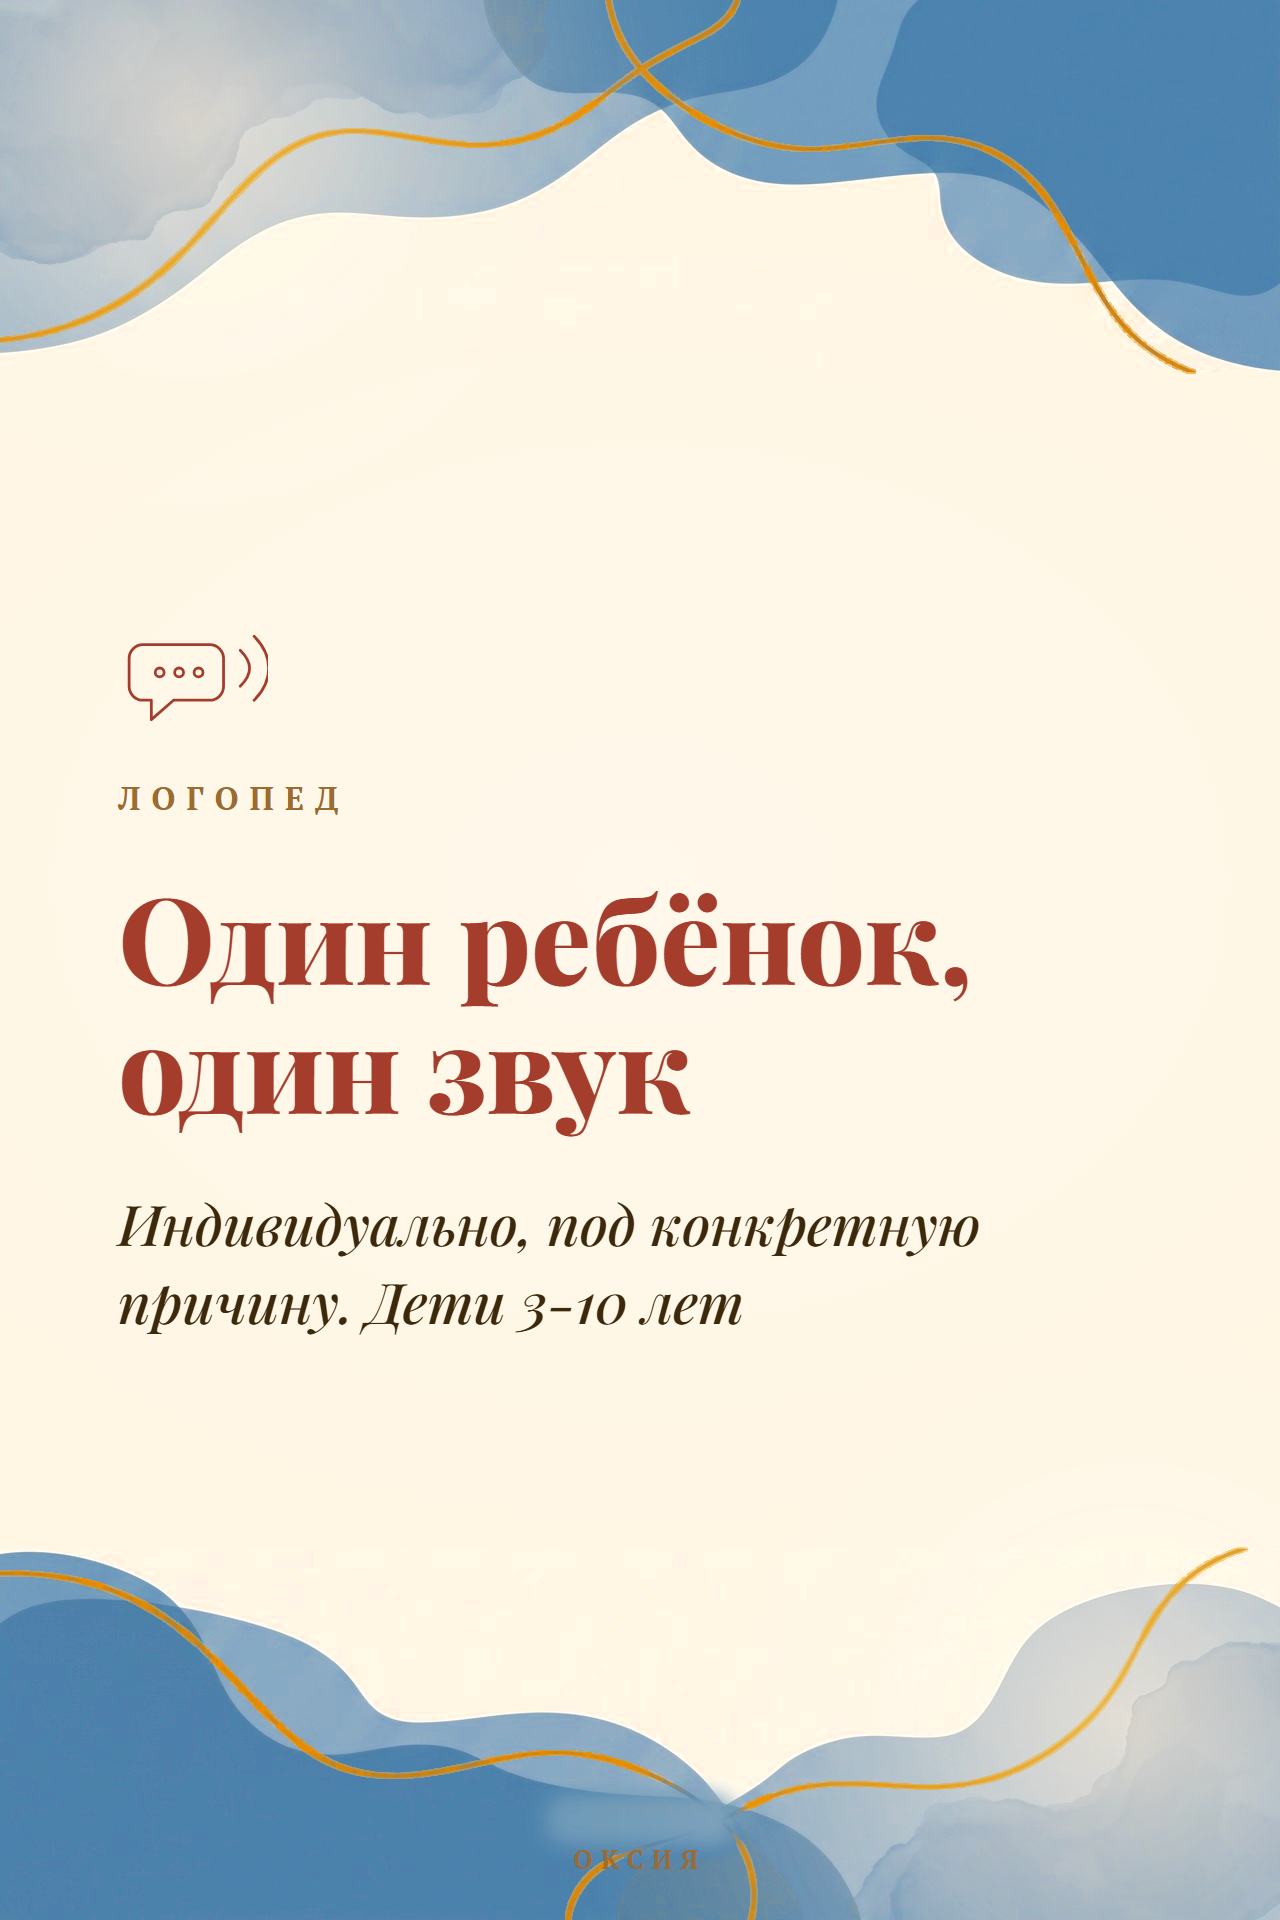
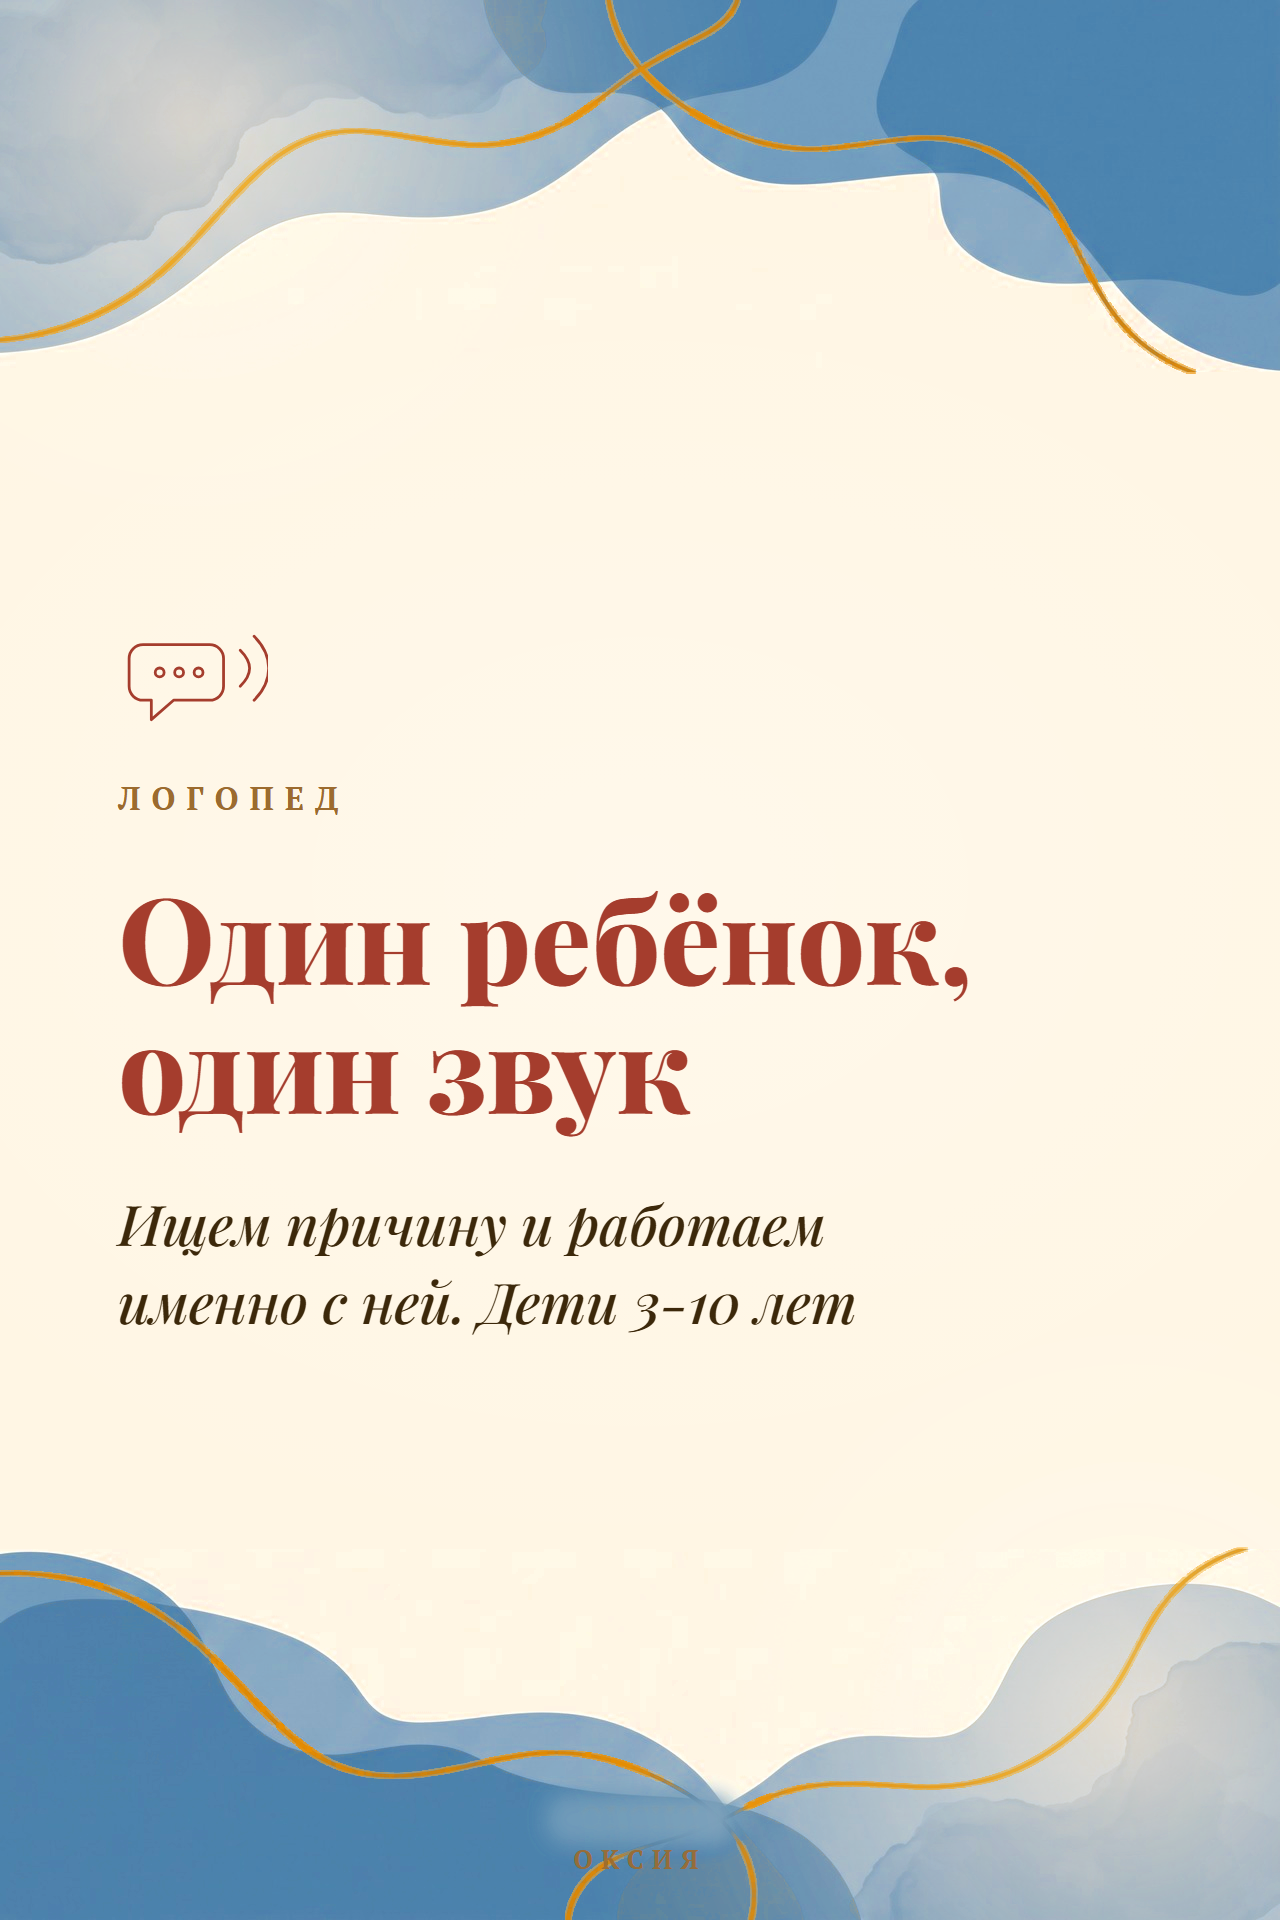
Аудит смысла/выгоды/русского языка по всем нетронутым слайдам
- 5: "Идёт в первый класс без стресса и растерянности" вместо бессмысленного "знает, что такое урок"
- 9: убран комма-сплайс "Берём с 4 лет, программа идёт..." -> точка
- 24: репетитор — вернули выгоду из брифа вместо голого списка предметов
- 33: убрана калька "под конкретную причину"

Changed region(s): [[0.0938, 0.625, 0.7812, 0.6875]]

diff --git a/story-preview/_build/slide-bright.html b/story-preview/_build/slide-bright.html
@@ -200,7 +200,7 @@ const S = {
   <div class="num">8 800 ₽</div>
   <div class="permo">в месяц</div>
   <div class="hair"></div>
-  <div class="lead">Читает, пишет и знает,<br>что такое урок</div>` },
+  <div class="lead">Идёт в первый класс<br>без стресса и растерянности</div>` },
 
 6:{ bg:'tb-bright-gold', accent:'var(--green-muted)', icon:I.hallmark, isize:'140px', ds:'150px', html:`
   <div class="kick">Как учим</div>
@@ -224,7 +224,7 @@ const S = {
   <div class="kick">Когда начинать</div>
   <h1 class="disp">Чем раньше,<br>тем легче</h1>
   <div class="hair"></div>
-  <div class="lead">Берём с 4 лет, программа<br>идёт от уровня ребёнка</div>` },
+  <div class="lead">Берём с 4 лет. Программа<br>идёт от уровня ребёнка</div>` },
 
 10:{ bg:'tb-bright', accent:'var(--blue-muted)', icon:I.bell, isize:'150px', ds:'132px', html:`
   <div class="kick">Как записаться</div>
@@ -306,7 +306,7 @@ const S = {
   <div class="num">1 600 ₽</div>
   <div class="permo">за занятие</div>
   <div class="hair"></div>
-  <div class="lead">Математика, русский и чтение.<br>Школьники 8-13 лет</div>` },
+  <div class="lead">Разбираем именно то,<br>что непонятно. Дети 8-13 лет</div>` },
 
 25:{ bg:'tb-bright', ghost:'₽', accent:'var(--green-muted)', icon:I.person, isize:'140px', html:`
   <div class="kick">Каллиграфия</div>
@@ -354,7 +354,7 @@ const S = {
 33:{ bg:'tb-bright', align:'left', accent:'var(--red-muted)', icon:I.sound, isize:'150px', ds:'120px', html:`
   <div class="kick">Логопед</div>
   <h1 class="disp">Один ребёнок,<br>один звук</h1>
-  <div class="lead">Индивидуально, под конкретную<br>причину. Дети 3-10 лет</div>` },
+  <div class="lead">Ищем причину и работаем<br>именно с ней. Дети 3-10 лет</div>` },
 
 34:{ bg:'tb-bright-gold', accent:'var(--green-muted)', icon:I.blocks, isize:'132px', ds:'96px', html:`
   <div class="kick">Шахматы</div>
